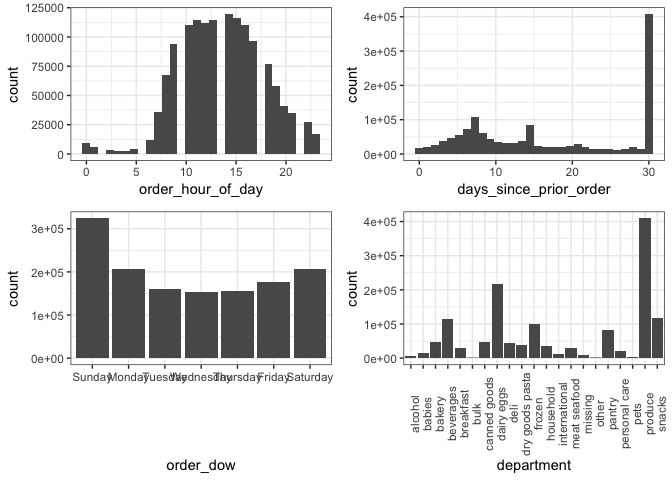
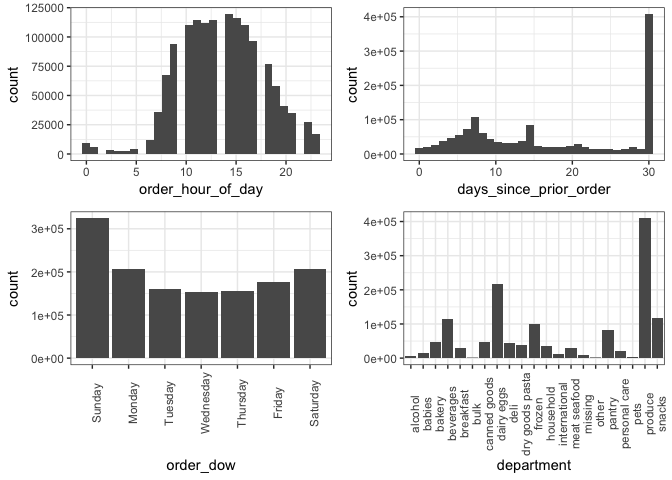
update order_dow plot

Changed region(s): [[0.0938, 0.7812, 0.5, 0.9062]]

diff --git a/p8105_hw3_ms5533.md b/p8105_hw3_ms5533.md
@@ -47,7 +47,7 @@ brfss_data %>%
 ## 3 NC                7
 ```
 
-**Connecticut, Florida, and North Caroline** were observed at 7
+**Connecticut, Florida, and North Carolina** were observed at 7
 locations in 2002.
 
 2.  *_Make a “spaghetti plot” that shows the number of observations in
@@ -189,7 +189,8 @@ dow_plot =
                          "Wednesday", "Thursday", "Friday", 
                          "Saturday"))) %>% 
   ggplot(aes(x = order_dow)) +
-  geom_bar()
+  geom_bar() +
+  theme(axis.text.x = element_text(angle = 90))
 
 # histogram: department
 department_plot = 
@@ -283,6 +284,17 @@ instacart_data %>%
 
 ``` r
 # NOT SURE WHAT THIS IS ASKING...
+
+instacart_data %>% 
+  filter(aisle == "baking ingrediants" | aisle == "dog food care" | 
+           aisle == " packeged vegetables fruits") %>% 
+  group_by(aisle, product_name) %>% 
+  summarise(
+    n = n()) %>% 
+  spread(key = aisle, value = n) %>% 
+  arrange(desc(n)) %>% 
+  top_n(5)
+
 
 instacart_data %>% 
   filter(aisle == "baking ingrediants" | aisle == "dog food care" | 
